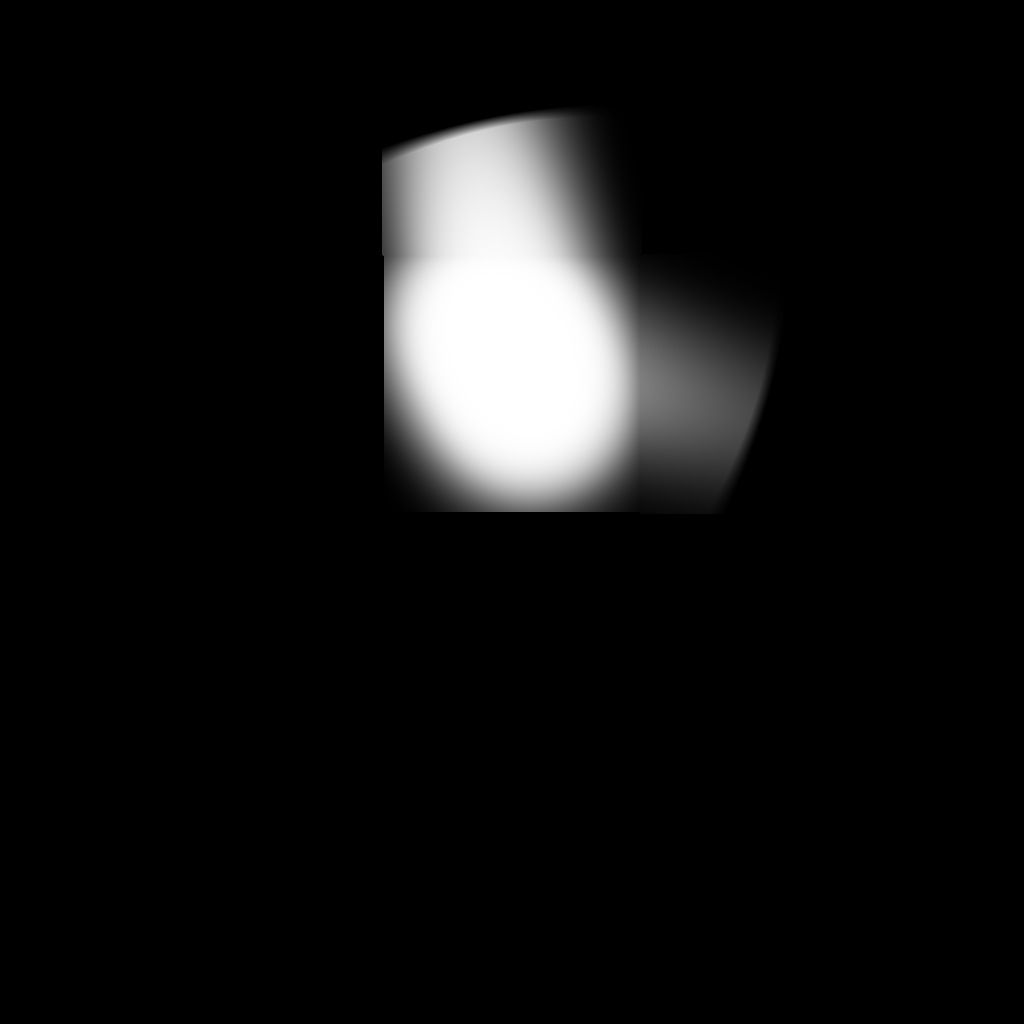
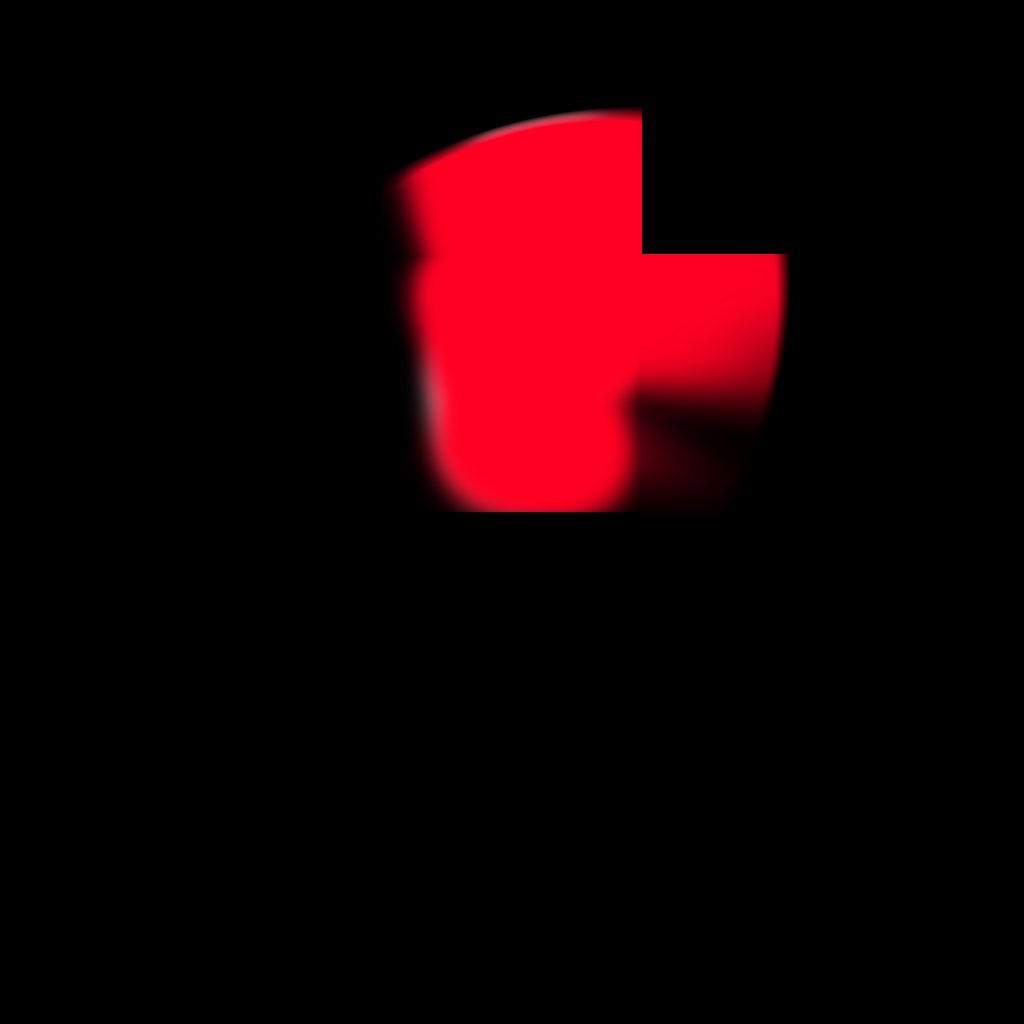
Albedo texture working.

Changed region(s): [[0.375, 0.0938, 0.7812, 0.5]]

diff --git a/src/world.rs b/src/world.rs
@@ -98,7 +98,7 @@ impl GpuScene {
                         &tex_coords.0,
                         vk::BufferUsageFlags::STORAGE_BUFFER,
                     )));
-                    mesh_idx.tex_coords.unwrap().1 += 1;
+                    mesh_idx.tex_coords.as_mut().unwrap().1 += 1;
                 }
             }
             blases.push(Blas::create(
@@ -108,6 +108,7 @@ impl GpuScene {
                     positions: positions_bufs.last().unwrap(),
                 },
             ));
+            //trace!("texco: {:#?}", mesh_idx.tex_coords);
             mesh_idxs.insert(entity, mesh_idx);
         }
         let mut textures = vec![];
@@ -185,6 +186,12 @@ impl GpuScene {
             .iter(&scene.world)
         {
             let mesh_idx = &mesh_idxs[&mesh_id.0];
+            /*
+            trace!(
+                "texco: {:#?}",
+                mesh_idx.tex_coords.map(|(_, n)| n).unwrap_or(0)
+            );
+            */
             instancedata.push(GlslInstanceData {
                 transform: transform.compute_matrix().to_cols_array_2d(),
                 mat_index: material_idxs[&material_id.0] as _,
@@ -198,6 +205,8 @@ impl GpuScene {
                 tex_coords_num: mesh_idx.tex_coords.map(|(_, n)| n).unwrap_or(0) as _,
                 _pad: [0, 0],
             });
+            //trace!("instancedata: {:#?}", instancedata.last());
+            //trace!("tex_coords_num: {:#?}", mesh_idx.tex_coords);
             let matrix = transform.compute_matrix();
             let matrix = [
                 matrix.x_axis.x,
@@ -373,9 +382,9 @@ impl Scene {
                         diffuse: mr.base_color_factor(),
                         mr: [mr.metallic_factor(), mr.roughness_factor(), 0., 0.],
                         emission,
-                        diffuse_tex: None,
-                        mr_tex: None,
-                        emission_tex: None,
+                        diffuse_tex,
+                        mr_tex,
+                        emission_tex,
                     })
                     .id();
                 material_entities.insert(material.index().unwrap(), material_entity);

diff --git a/src/model.rs b/src/model.rs
@@ -70,7 +70,7 @@ pub struct Material {
 /// Data relating to an instance used to acces materials etc. in the shader.
 ///
 #[repr(C)]
-#[derive(Clone, Copy, bytemuck::Pod, bytemuck::Zeroable)]
+#[derive(Clone, Copy, Debug, bytemuck::Pod, bytemuck::Zeroable)]
 pub struct GlslInstanceData {
     pub transform: [[f32; 4]; 4],
     pub mat_index: u32,
